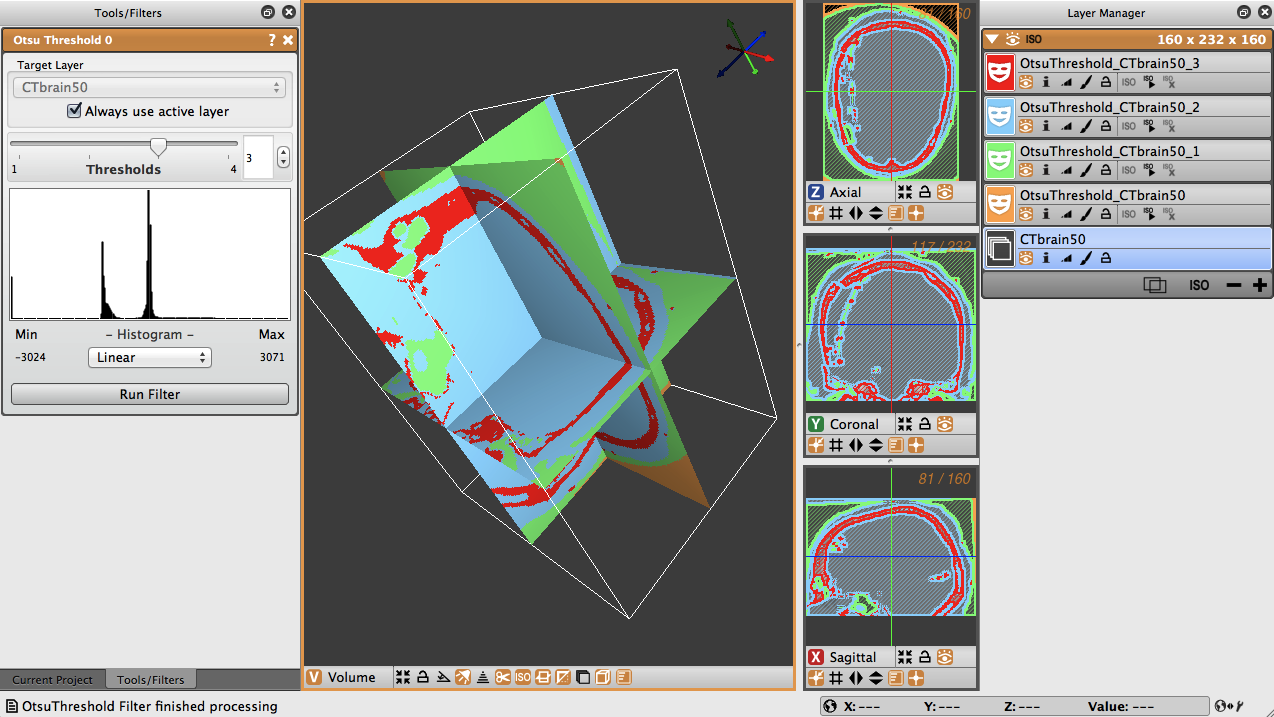
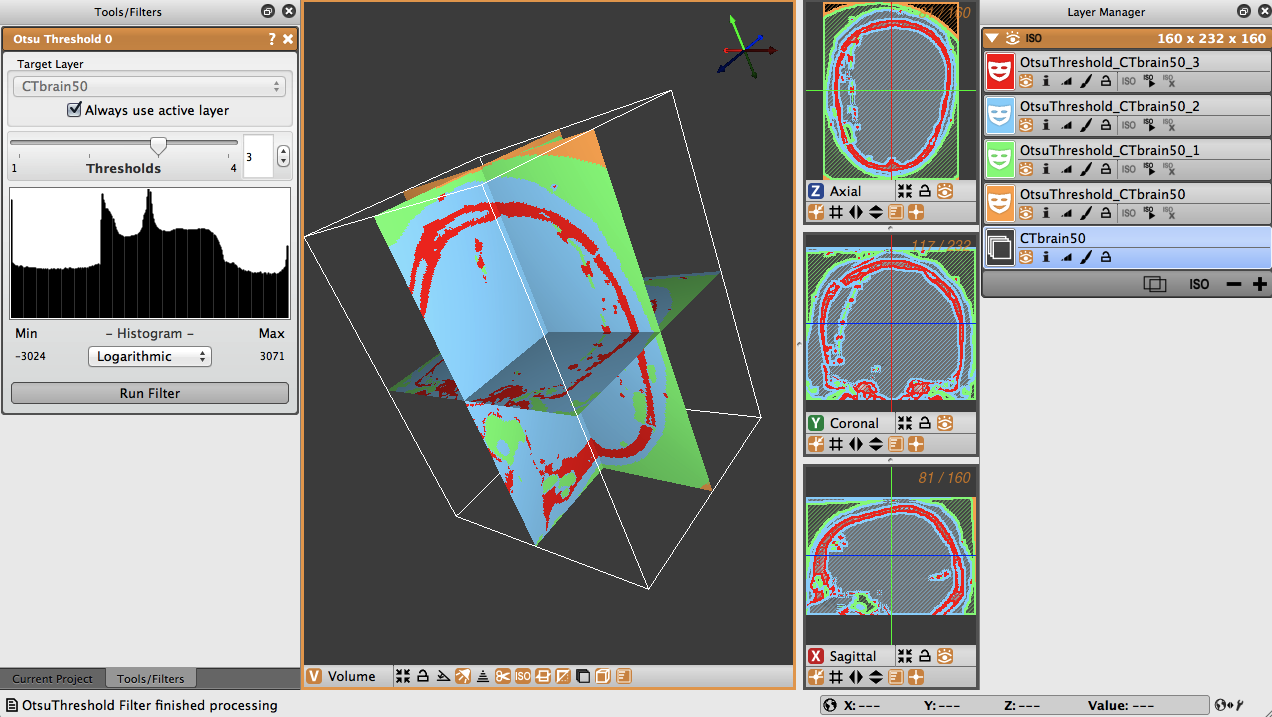
Made slight modifications to the Otsu Threshold description, and added a description of the Canny Edge Detection Filter.
git-svn-id: https://gforge.sci.utah.edu/svn/seg3d2/trunk@1745 305cdda6-5ce1-45b3-a98d-dfc68c8b3305

diff --git a/src/Documentation/Seg3DTutorial.tex b/src/Documentation/Seg3DTutorial.tex
@@ -435,21 +435,44 @@ Repeat the same procedure for the gray matter (see figure~\ref{fig:ThresholdGray
 
 \section{Otsu Threshold}
 
-Another thresholding tool available in the Data Filters menu is the Otsu Threshold. The Otsu Threshold uses an image intensity histogram to determine adeuqate threshold levels and segment the image based on the determined threshold levels. A demonstration of the Otsu Threshold will be done on the CT image from the brain dataset.
+Another thresholding tool available in the Data Filters menu is the Otsu Threshold. The Otsu Threshold uses an image intensity histogram to determine adequate threshold levels and segment the image based on the determined threshold levels. A demonstration of the Otsu Threshold will be done on the CT image from the brain dataset.
 
-To use the Otsu Threshold, first select the {\bf Otsu Threshold} tool from the {\bf Data Filters} menu. The tools window will then show the information on the Otsu Threshold tool. The target layer may be selected, and the number of thresholds can be selected, from zero to four different thresholding layers. Below the number of thresholds is the histogram representing the intensities of the pixels of the image (figure~\ref{fig:OtsuBefore}).
+To use the Otsu Threshold, first select the {\bf Otsu Threshold} tool from the {\bf Data Filters} menu. The tools window will then show the information on the Otsu Threshold tool. The target layer may be selected, and the number of thresholds can be selected, from zero to four different thresholding layers. Below the number of thresholds is the histogram representing the intensities of the pixels of the image (figure~\ref{fig:OtsuBefore}). The menu box below the histogram allows the user to select whether they would like a logarithmic or a linear graph.
 
 \begin{figure}
 \scalebox{0.3}{\includegraphics{Seg3DTutorial_figures/OtsuBefore.png}}
 \caption{Brain data before Otsu thresholding}\label{fig:OtsuBefore}
 \end{figure}
 
-To use the Otsu Threshold tool on the brain CT image, select the tool and then choose three as the number of thresholds. Select linear as the method for calculation, and run the filter. The thresholded layers will appear in the layers view on the right. The number of layers corresponds to the number of thresholds selected in the tool view. In the brain data, the tool created different layers for dense matter like bone, other matter, and empty space (figure~\ref{fig:OtsuAfter}).
+To use the Otsu Threshold tool on the brain CT image, select the tool and then choose three as the number of thresholds. Select logarithmic for the display of the histogram, and run the filter. The thresholded layers will appear in the layers view on the right. The number of layers corresponds to the number of thresholds selected in the tool view. In the brain data, the tool created different layers for dense matter like bone, other less dense matter, and air (figure~\ref{fig:OtsuAfter}).
 
 \begin{figure}
 \scalebox{0.3}{\includegraphics{Seg3DTutorial_figures/OtsuAfter.png}}
 \caption{Brain data after Otsu thresholding}\label{fig:OtsuAfter}
 \end{figure}
 
+\section{Canny Edge Detection Filter}
+An advanced tool for edge detection is the Canny Edge Detection Filter. This filter computes the edges using a Canny Edge Detection Filter, which involves smoothing the image with a Gaussian filter, calculating the second directional derivatives of the smoothed image, and performing a non-maximum supression to find the correct extrema. The hysteresis thresholding is then applied to the gradient magnitude of the smoothed image to find and link edges. A demonstration of the Canny Edge Detection Filter will be done on the CT image from the brain dataset.
+
+To use the Canny edge detection filter on the volume, first select the Canny edge detection tool from the Advanced Filters menu. In the tools window, the Canny edge detection tool will appear, allowing you to select the layer to run the filter on, as well as an area to select the distance and minimum threshold (figure~\ref{fig:CannyBefore}). 
+
+\begin{figure}
+\scalebox{0.3}{\includegraphics{Seg3DTutorial_figures/CannyBefore.png}}
+\caption{Brain data before Canny edge detection}\label{fig:CannyBefore}
+\end{figure}
+
+The distance is the distance between edges, and the threshold is the pixel intensity threshold for distinguishing edges. Select the distance as 4 and the threshold as 40. When the layer, distance and threshold have been selected, run the filter to create a new layer with the Canny edges displayed (figure~\ref{fig:CannyAfter}). Note the detection of edges between dense bone matter and less dense matter.
+
+\begin{figure}
+\scalebox{0.3}{\includegraphics{Seg3DTutorial_figures/CannyAfter.png}}
+\caption{Brain data after Canny edge detection}\label{fig:CannyAfter}
+\end{figure}
+
+Notice that if the threshold is changed from 4 to 0, the filter detects edges in brain matter, as seen in figure~\ref{fig:CannyAfterMatter}
+
+\begin{figure}
+\scalebox{0.3}{\includegraphics{Seg3DTutorial_figures/CannyAfterMatter.png}}
+\caption{Canny edge detection with a lower threshold}\label{fig:CannyAfterMatter}
+\end{figure}
 \end{document}
 
